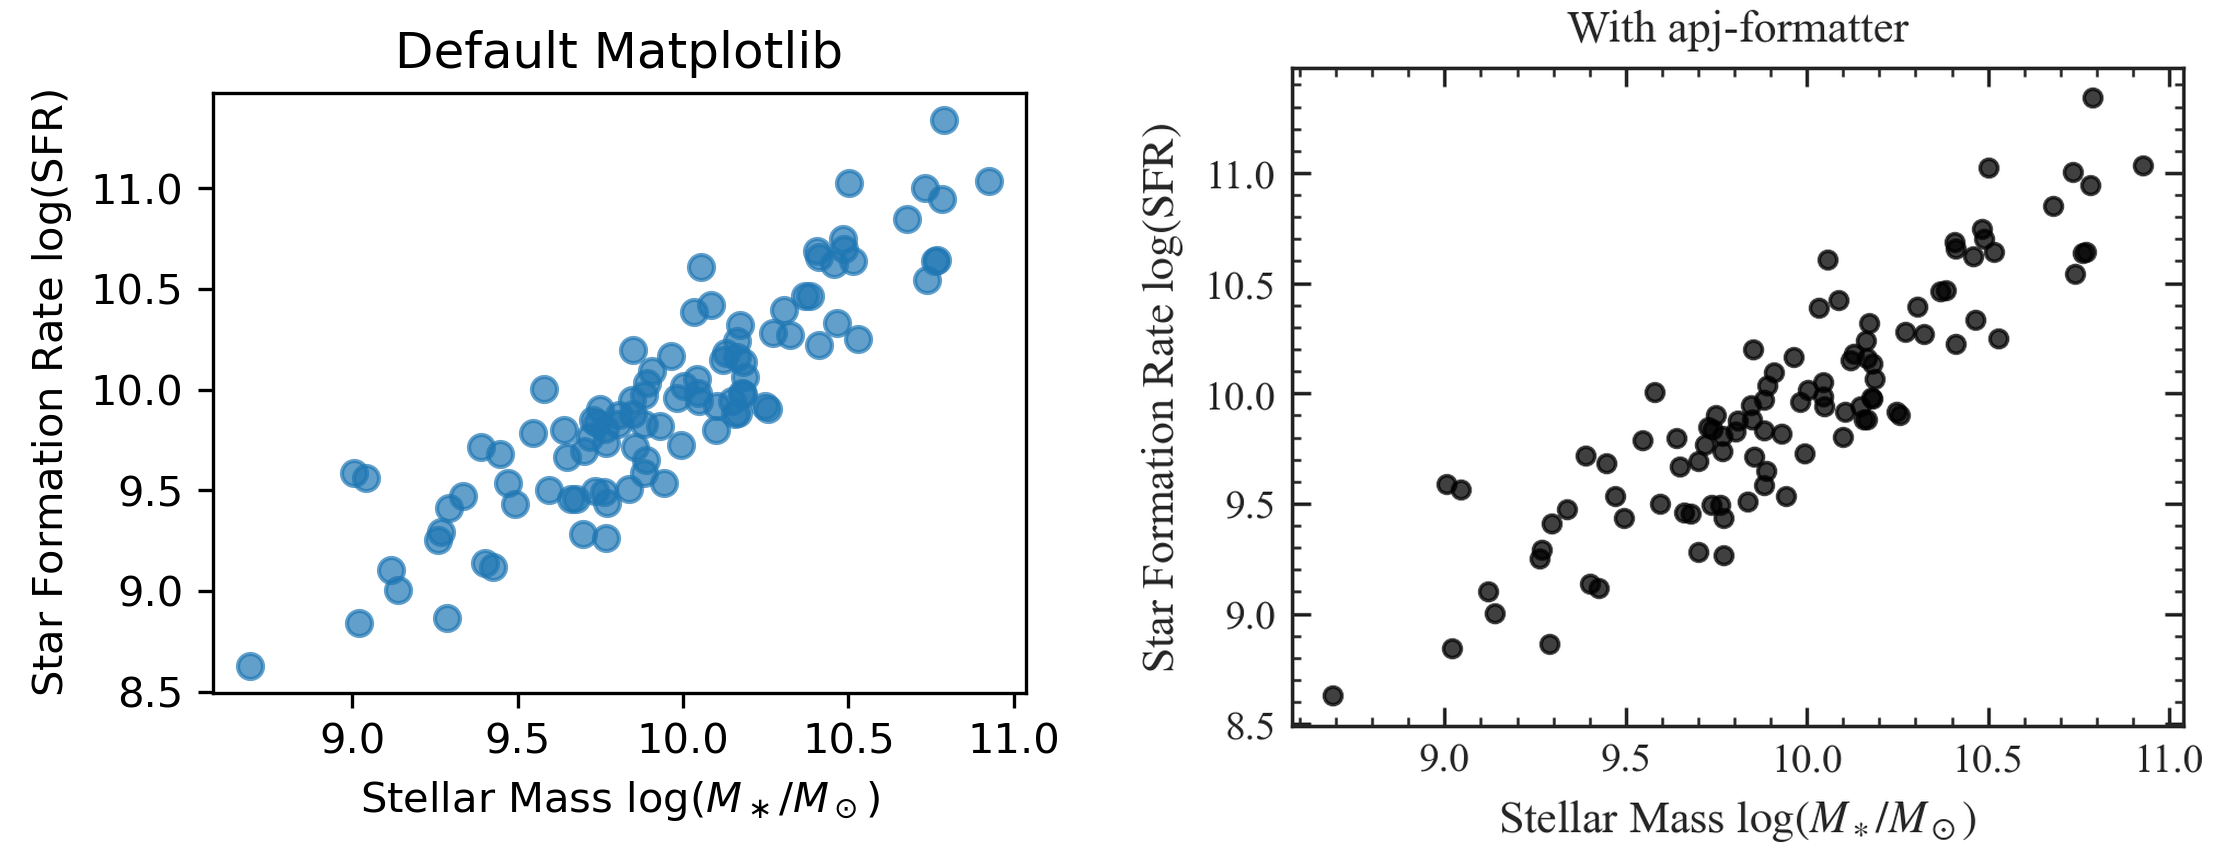
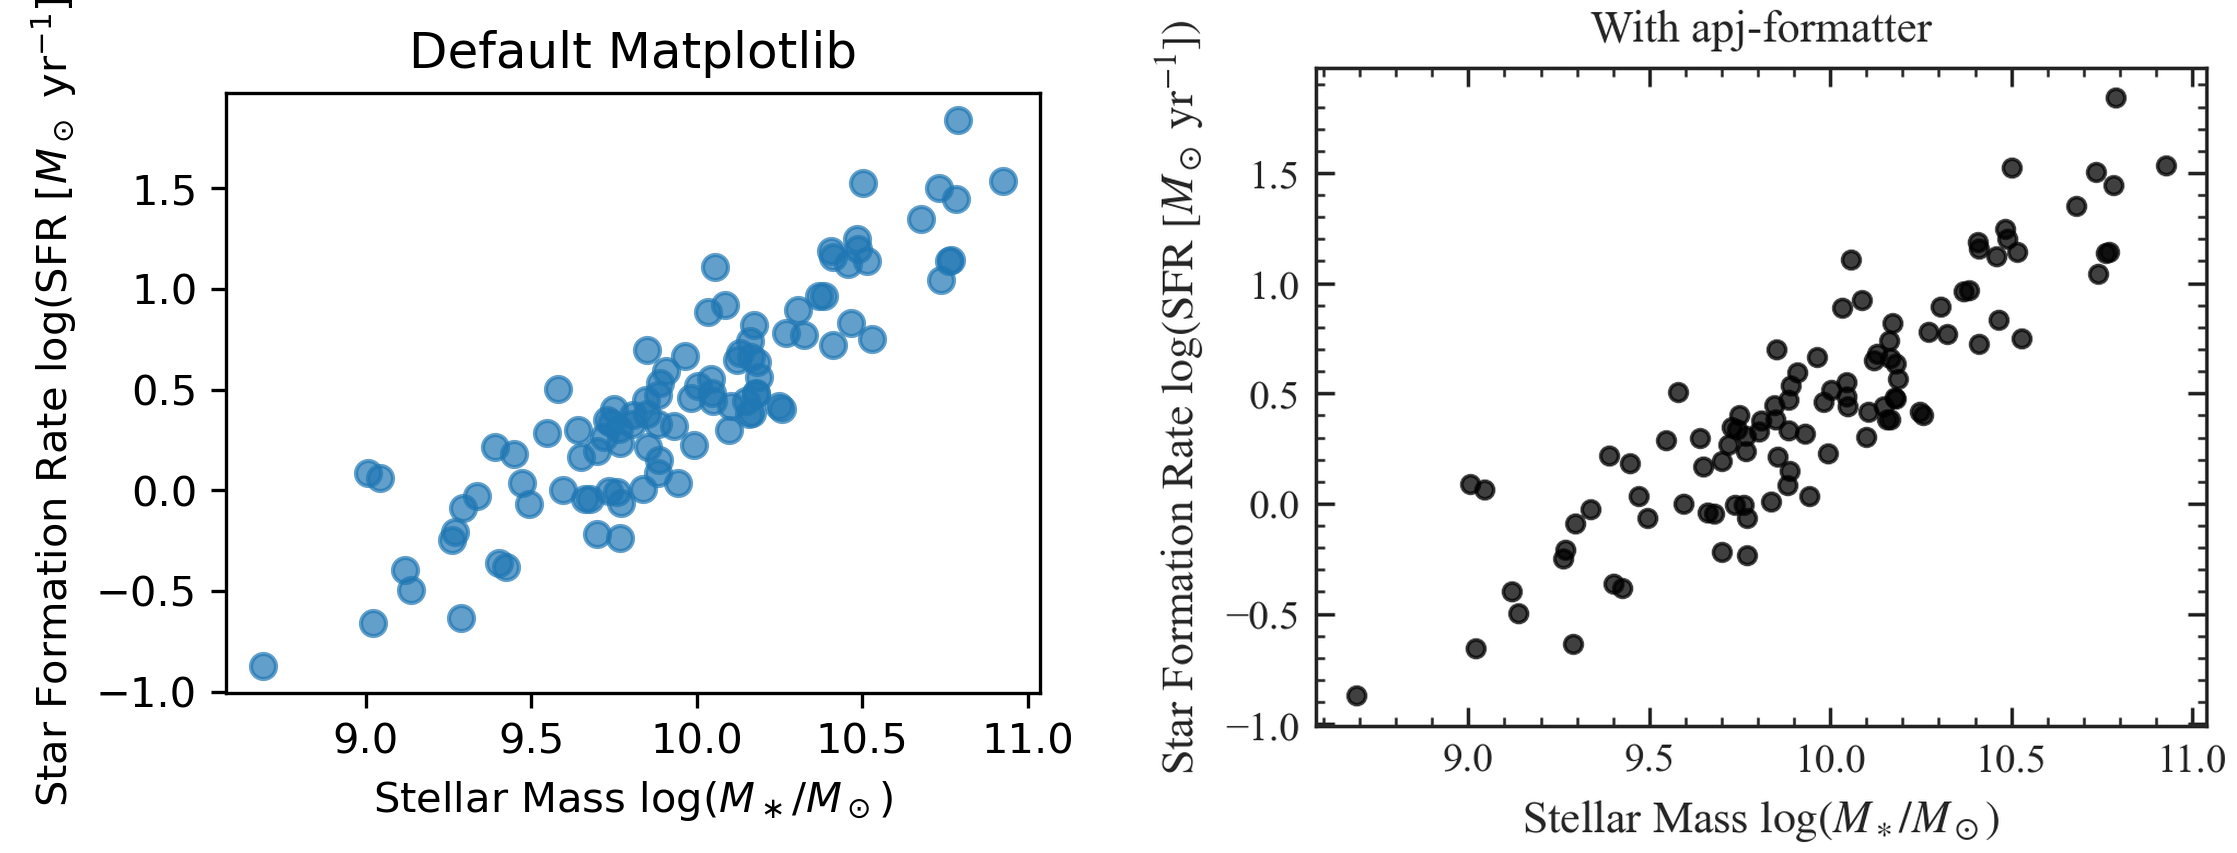
docs: adjust SFR offset to physical values for star-forming galaxies and add units

diff --git a/README.md b/README.md
@@ -19,21 +19,22 @@ import matplotlib.pyplot as plt
 import apj_formatter
 
 x = np.random.normal(10.0, 0.5, 100)
-y = 1.1 * x - 1.0 + np.random.normal(0, 0.25, 100)
+# Physical SFMS relation: ~0.5 dex at 10^10 M_sun
+y = 1.1 * x - 10.5 + np.random.normal(0, 0.25, 100)
 
 # --- Default Matplotlib ---
 fig_def, ax_def = plt.subplots(figsize=(3.5, 2.6))
 ax_def.scatter(x, y, alpha=0.7)
 ax_def.set_title("Default Matplotlib")
 ax_def.set_xlabel(r"Stellar Mass $\log(M_\ast / M_\odot)$")
-ax_def.set_ylabel(r"Star Formation Rate $\log(\mathrm{SFR})$")
+ax_def.set_ylabel(r"Star Formation Rate $\log(\mathrm{SFR}\ [M_\odot\ \mathrm{yr}^{-1}])$")
 
 # --- With apj-formatter ---
 fig_apj, ax_apj = apj_formatter.subplots(1, 1, columns=1, aspect_ratio=2.6/3.5)
 ax_apj.scatter(x, y, color="black", s=15, alpha=0.75)
 ax_apj.set_title("With apj-formatter")
 ax_apj.set_xlabel(r"Stellar Mass $\log(M_\ast / M_\odot)$")
-ax_apj.set_ylabel(r"Star Formation Rate $\log(\mathrm{SFR})$")
+ax_apj.set_ylabel(r"Star Formation Rate $\log(\mathrm{SFR}\ [M_\odot\ \mathrm{yr}^{-1}])$")
 apj_formatter.save_apj(fig_apj, "scatter_apj.pdf")
 ```
 
